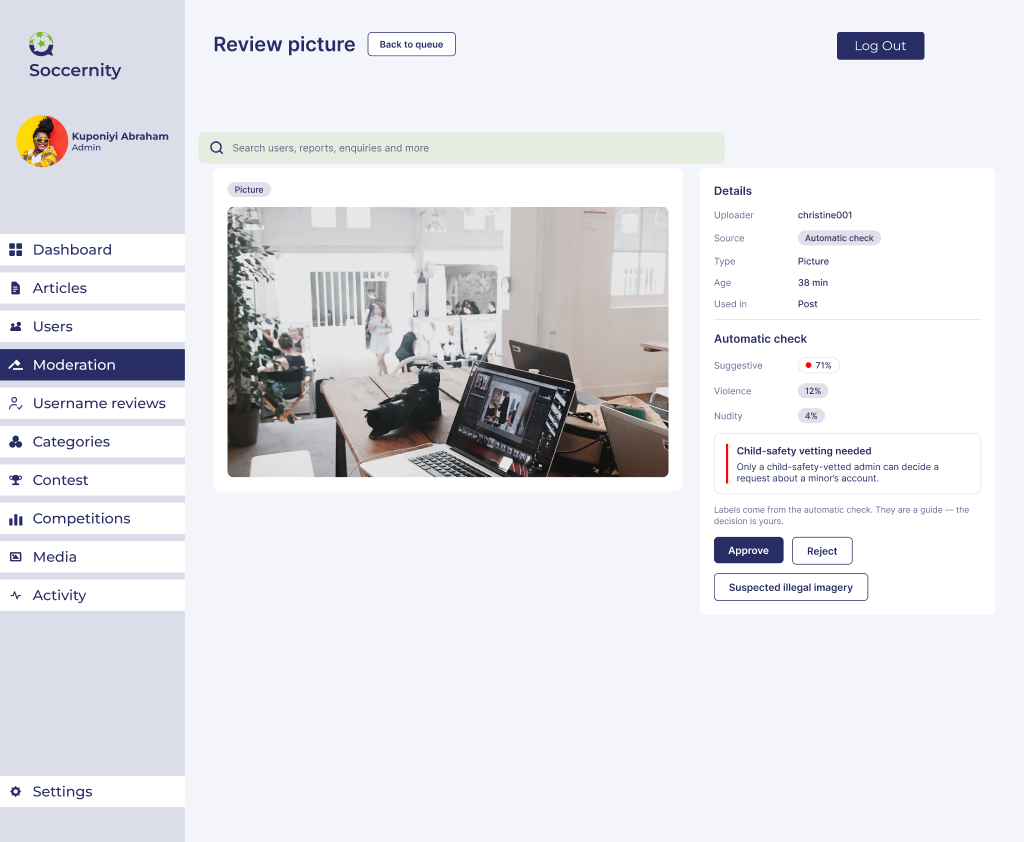
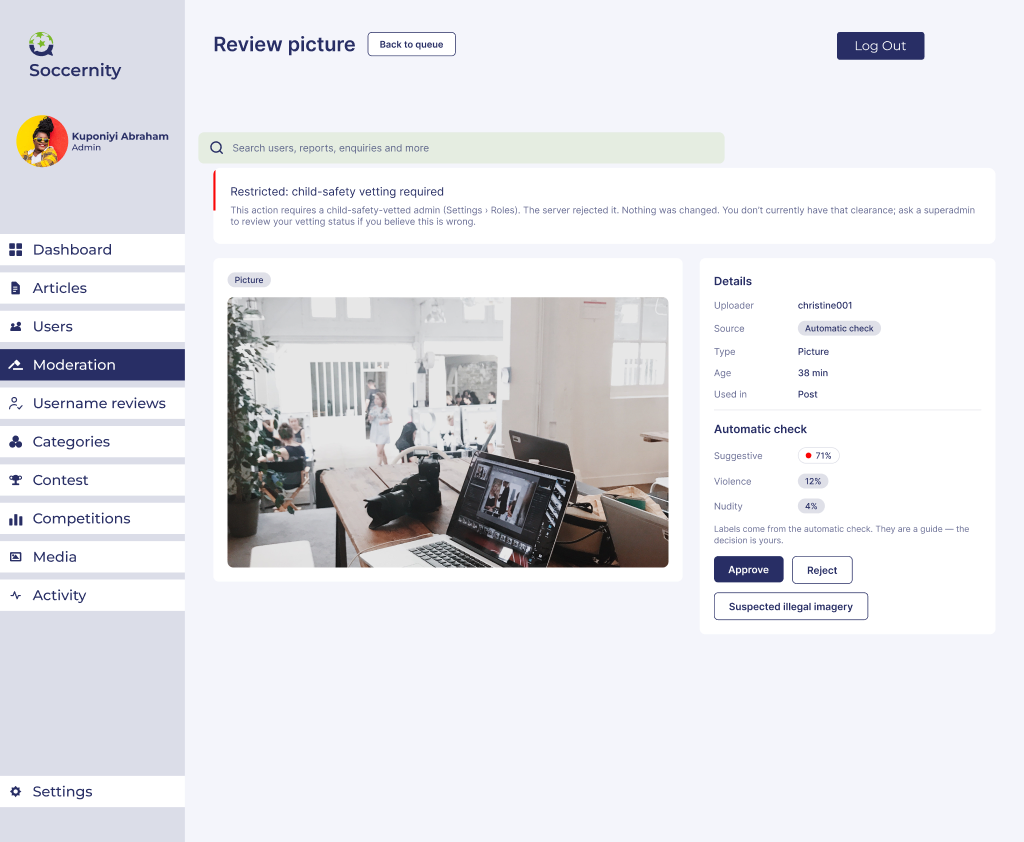
design(figma): SA-8 restricted notice as the real card above Details; clear SA-3 Cancel link

Changed region(s): [[0.2188, 0.2162, 0.9375, 0.7411]]

diff --git a/docs/figma-admin-set-aside-report.md b/docs/figma-admin-set-aside-report.md
@@ -6,7 +6,7 @@ Figma and docs only. No code, tests, strings, Build Plan docx, legal draft or De
 Every string is copied exactly from `SetAsideDialog.tsx`, `MediaReviewItemPage.tsx` and `apps/admin/src/api/suspectedIllegal.ts`. No new string was invented. Nothing is tagged `[COPY PENDING LEGAL REVIEW]` (founder cleared it 2026-11-22, R108).
 
 ## Edited in place
-Third button "Suspended illegal imagery" label is "Suspected illegal imagery" on the four item frames: Picture `6852:30003` (button `7090:67164`), Video `6852:30323` (`7090:67166`), Profile picture `6972:46346` (`7090:67168`), Cover `6972:46516` (`7090:67170`). The decision frames `6852:30318`, `6852:30653`, `6972:46388`, `6972:46558` are now 376x90: the action row wraps and the third button sits on a second line (checked on all four).
+The third button on the four item frames is labelled "Suspected illegal imagery": Picture `6852:30003` (button `7090:67164`), Video `6852:30323` (`7090:67166`), Profile picture `6972:46346` (`7090:67168`), Cover `6972:46516` (`7090:67170`). The decision frames `6852:30318`, `6852:30653`, `6972:46388`, `6972:46558` are now 376x90: the action row wraps and the third button sits on a second line (checked on all four).
 
 ## New frames (1440x1184, Admin Shell Active = Moderation)
 - SA-1 `7092:67168` dialog, reason required (empty, validation line)
@@ -16,7 +16,7 @@ Third button "Suspended illegal imagery" label is "Suspected illegal imagery" on
 - SA-5 `7097:67707` dialog for a profile picture
 - SA-6 `7099:67843` picture set aside (record status shown)
 - SA-7 `7099:68023` profile picture set aside
-- SA-8 `7101:68108` restricted notice (callout `7101:68281`), the existing child-safety-vetting-required notice
+- SA-8 `7101:68108` restricted notice: a full-width `Card — Restricted` (`7106:68253`, cloned from `7075:66265`) above the Details card, with the exact `VettingRestrictedNotice` text (title "Restricted: child-safety vetting required", the code's body with its curly apostrophe). The earlier callout `7101:68281` was removed and the Details panel is back to the Picture item layout (529 high); the action row stays wrapped with the third button, as in the code. The prototype link on the disabled Cancel of SA-3 (`7094:67552`) was removed because the code disables Cancel while submitting
 - Notes frame `7102:68239` (7 notes)
 
 ## Prototype links (9, read back)
